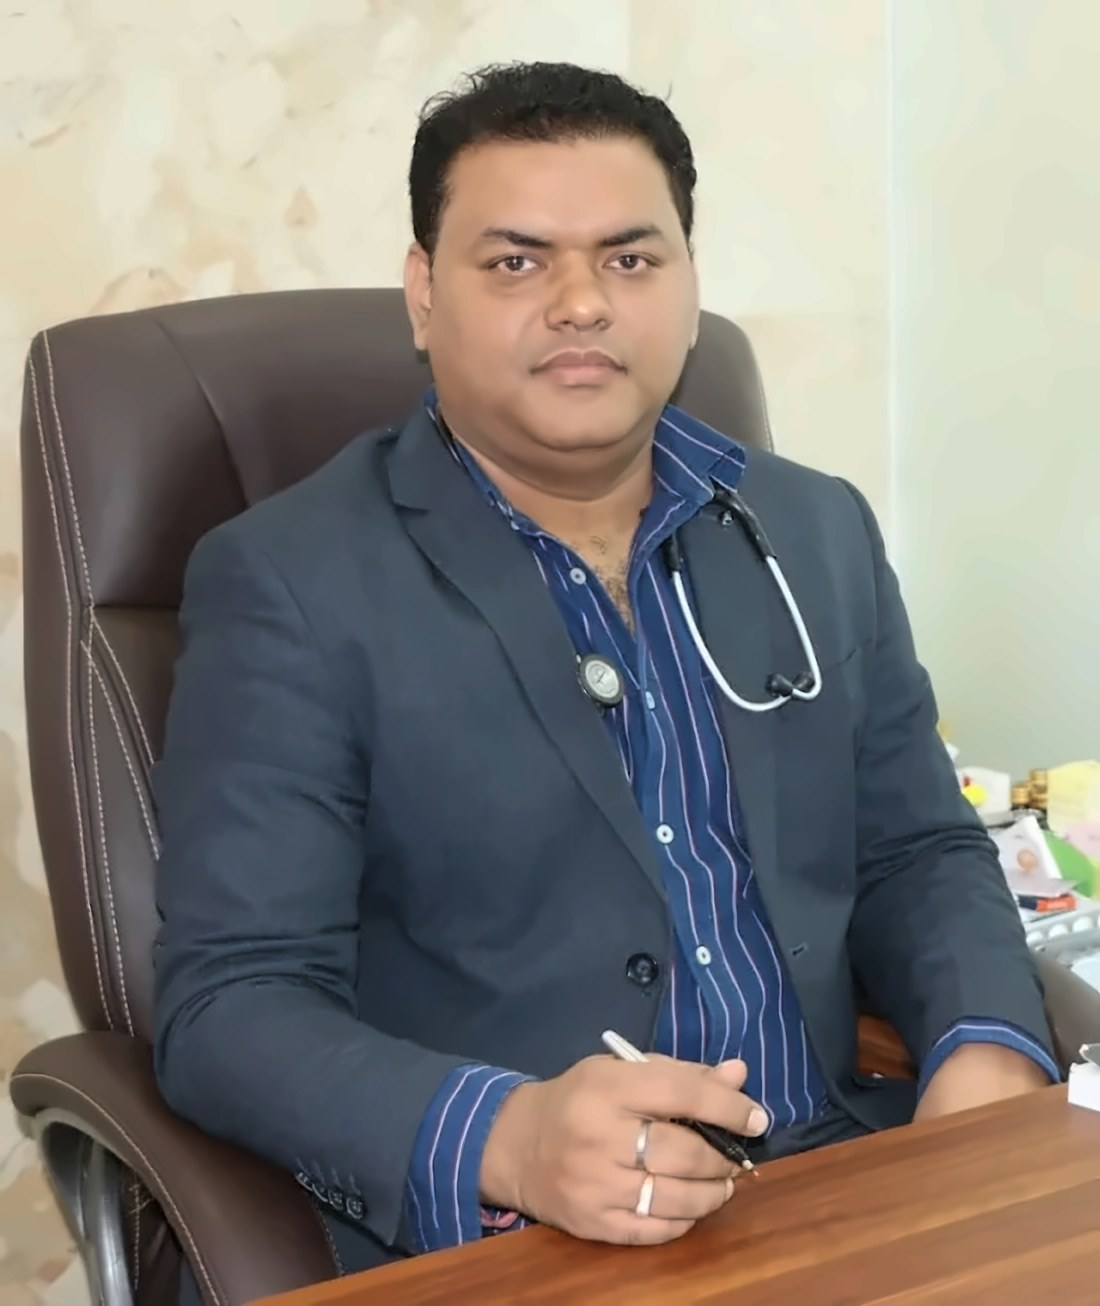
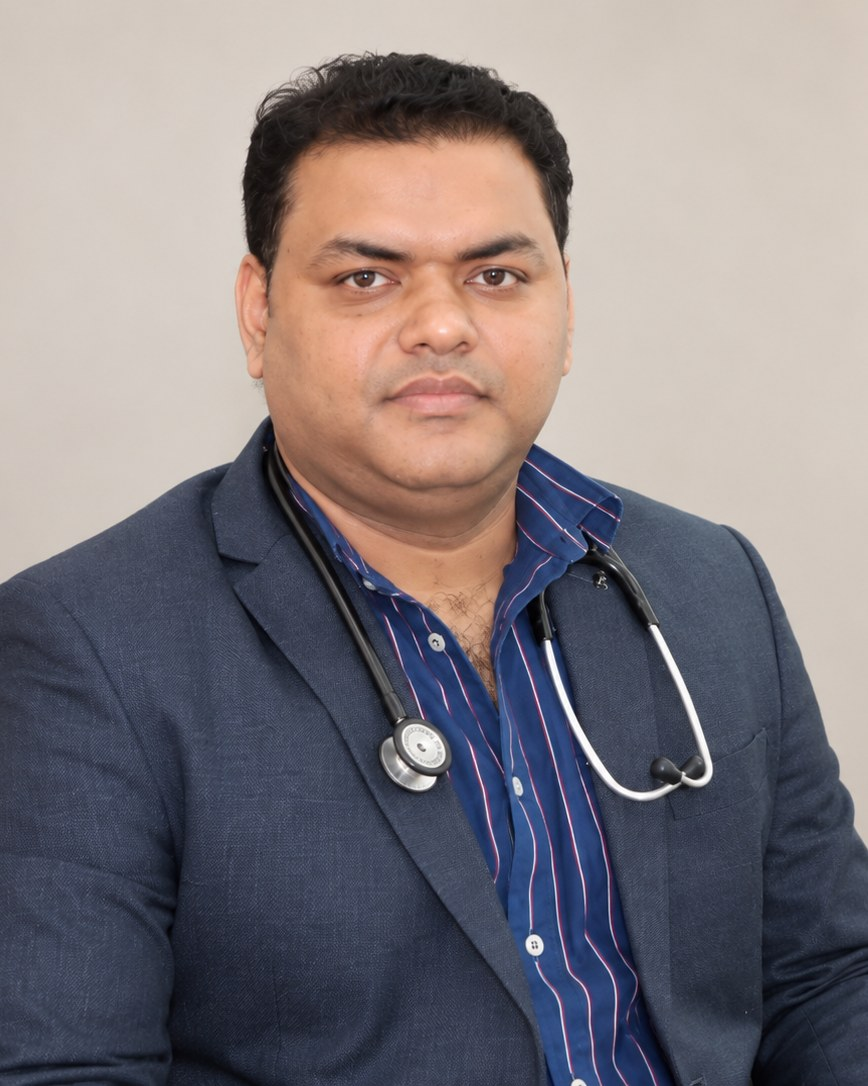
Add Dr. Preeti Singh portrait; replace Dr. Shivendra Singh and Dr. Gyanendra Singh portraits
Client-supplied studio-style portraits (2026-10-01), cropped to 4:5.

diff --git a/src/lib/data.ts b/src/lib/data.ts
@@ -82,7 +82,7 @@ export const DOCTORS: Doctor[] = [
     expertise: "Surgical treatment of cancers of the stomach, intestine, liver, pancreas, and GI tract.",
     specialities: ["oncology"],
     portrait: "/images/dr-shivendra-singh.jpg",
-    portraitPosition: "58% 5%",
+    portraitPosition: "35% 8%",
   },
   {
     slug: "dr-preeti-singh",
@@ -96,6 +96,8 @@ export const DOCTORS: Doctor[] = [
     forWhat: "IVF, infertility, irregular periods, pregnancy care, gynaecological concerns",
     expertise: "IVF, infertility evaluation, high-risk pregnancies, antenatal care, gynaecological procedures.",
     specialities: ["gynaecology-ivf"],
+    portrait: "/images/dr-preeti-singh.jpg",
+    portraitPosition: "50% 8%",
   },
   {
     slug: "dr-amitabh-singh",
@@ -140,7 +142,7 @@ export const DOCTORS: Doctor[] = [
     expertise: "Fevers, infections, diabetes, hypertension, thyroid, general medical conditions.",
     specialities: ["general-medicine"],
     portrait: "/images/dr-gyanendra-singh.jpg",
-    portraitPosition: "50% 5%",
+    portraitPosition: "50% 8%",
   },
   {
     slug: "dr-pranjal-chaurasia",
